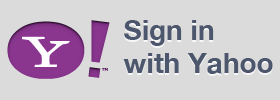
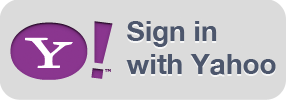
Round corners and improve padding on OpenID buttons

diff --git a/Classes/LoginViewController.m b/Classes/LoginViewController.m
@@ -205,7 +205,7 @@
     [gb addTarget:self action:@selector(tapGoogle) forControlEvents:UIControlEventTouchUpInside];
 
     // Yahoo
-    UIButton *yb = [[UIButton alloc] initWithFrame:CGRectMake(165, 110, 140, 50)];
+    UIButton *yb = [[UIButton alloc] initWithFrame:CGRectMake(165, 110, 143, 50)];
     [yb setBackgroundImage:[UIImage imageNamed:@"login-yahoo.png"] forState:UIControlStateNormal];
     yb.autoresizingMask = UIViewAutoresizingFlexibleLeftMargin;
     [yb addTarget:self action:@selector(tapYahoo) forControlEvents:UIControlEventTouchUpInside];
